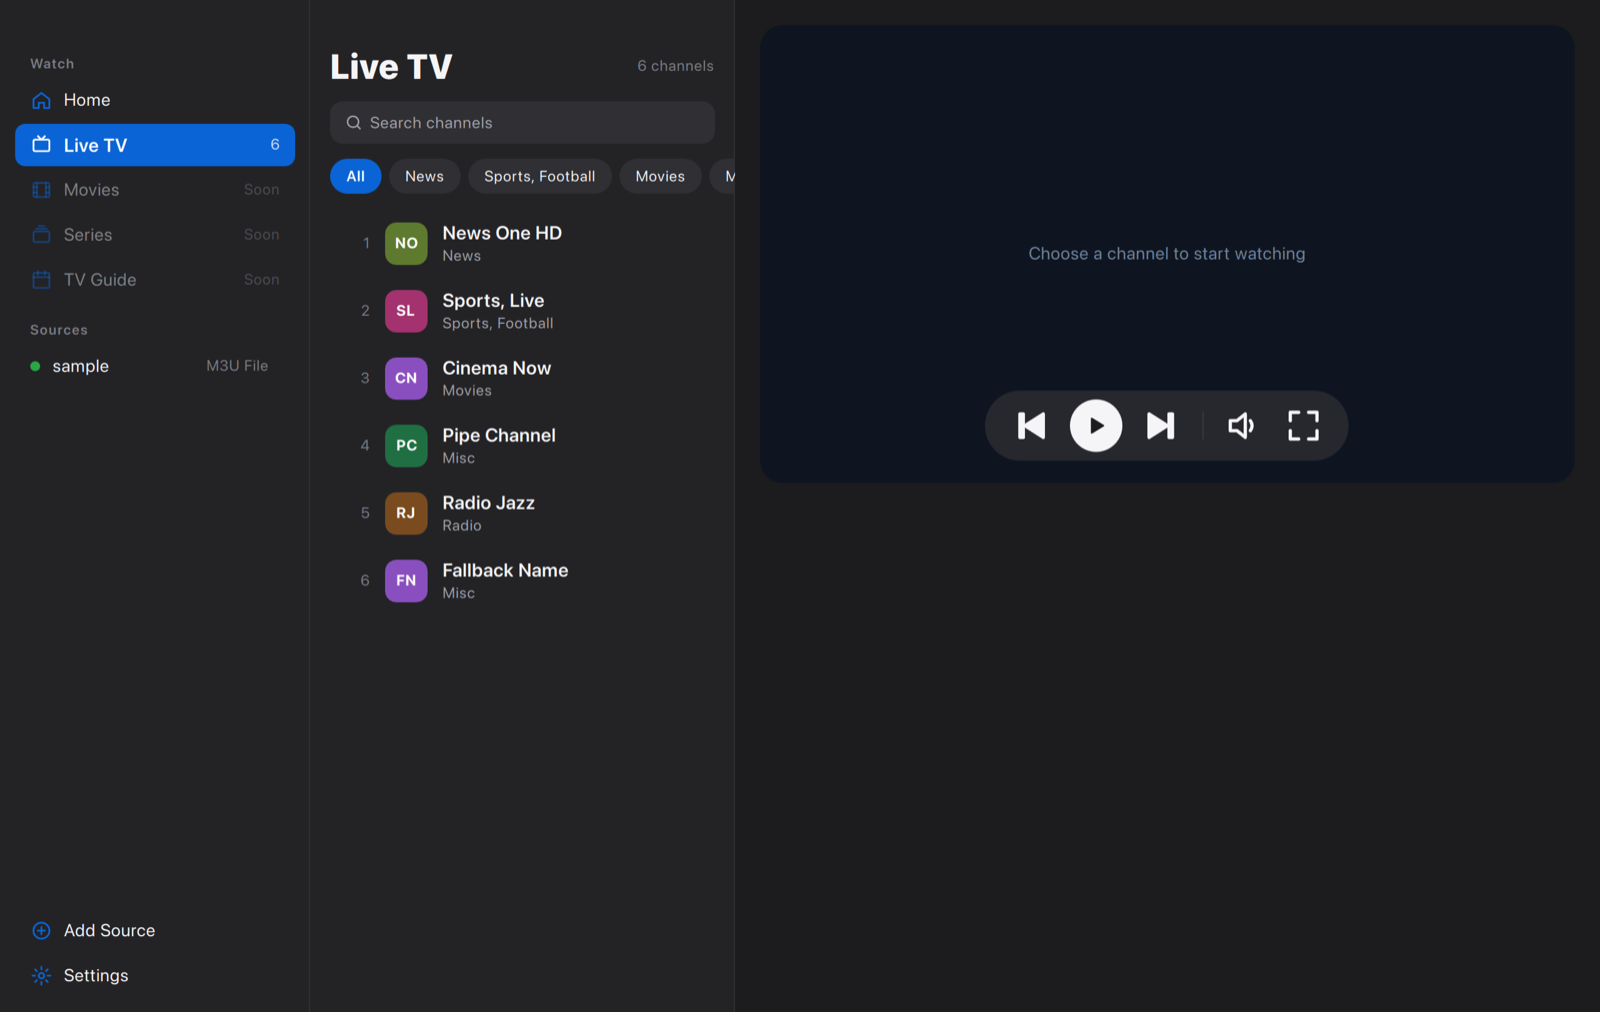
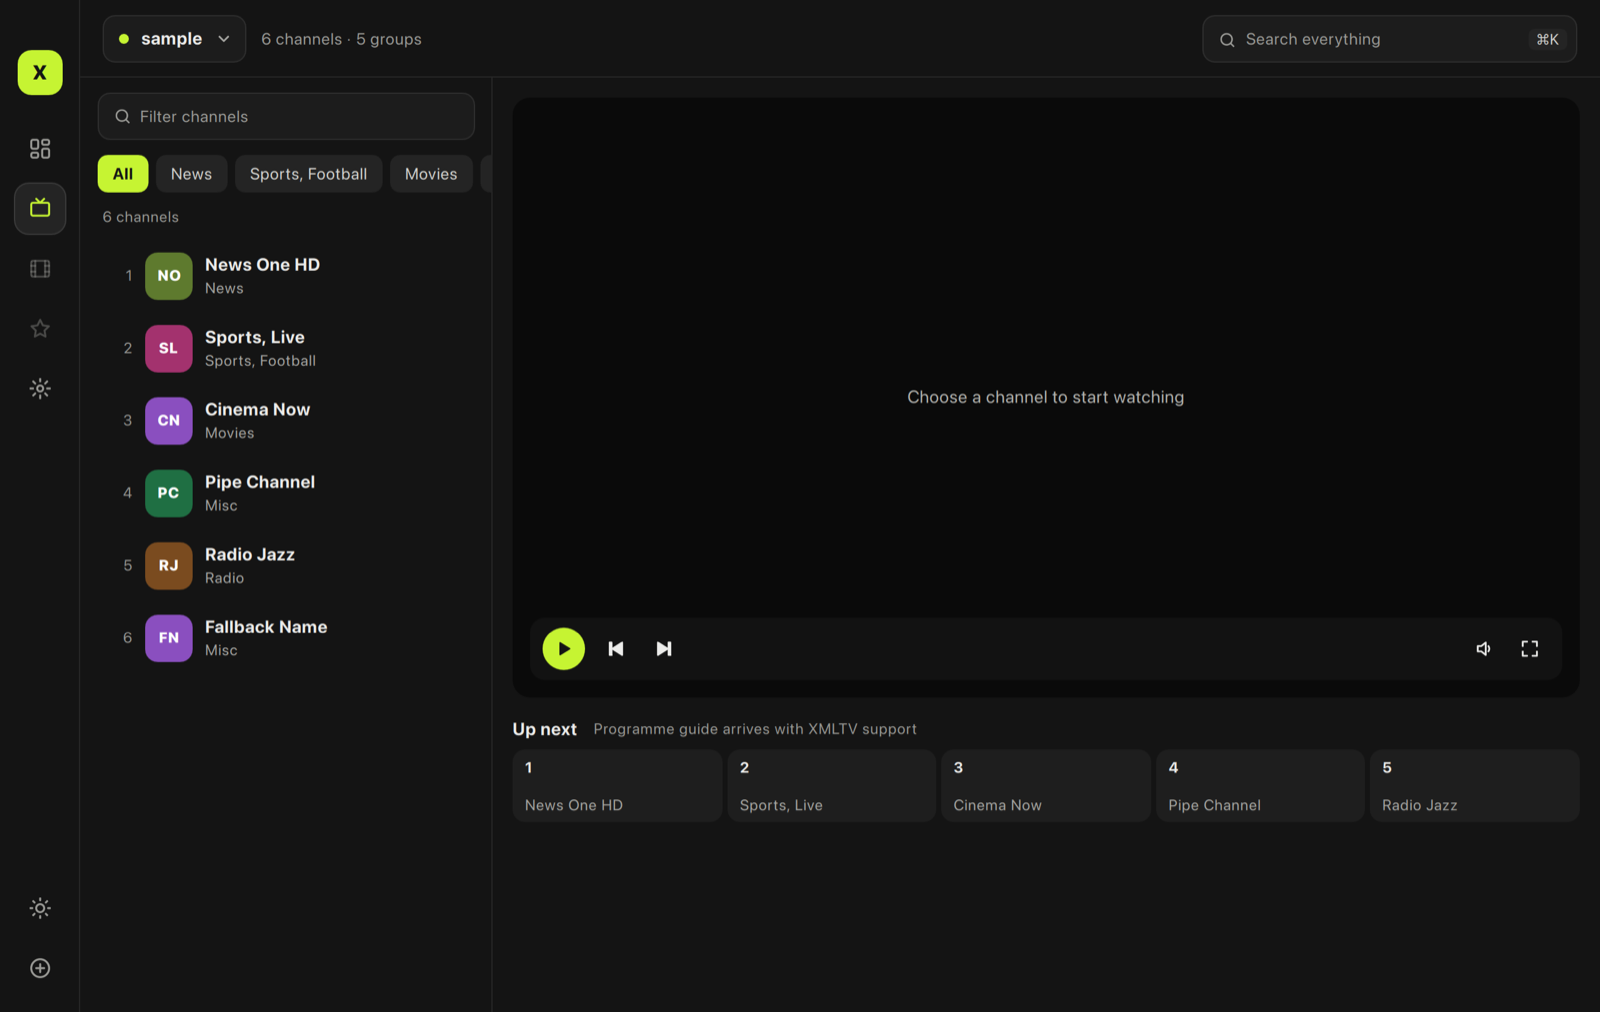
docs: refresh README and screenshots for the Workspace design
Show Live TV in dark and light, the light dashboard and the dark command palette, and describe the new design and palette.

diff --git a/README.md b/README.md
@@ -10,7 +10,7 @@
 ![Platforms](https://img.shields.io/badge/platforms-macOS%20%7C%20Windows%20%7C%20Linux-lightgrey)
 [![License: MIT](https://img.shields.io/badge/license-MIT-blue.svg)](LICENSE)
 
-<img src="docs/assets/home-dark.png" alt="IPTVX home screen in dark mode" width="860">
+<img src="docs/assets/home-dark.png" alt="IPTVX dashboard in dark mode" width="860">
 
 </div>
 
@@ -24,7 +24,8 @@
 
 |  |  |
 |---|---|
-| 🎨 **Aurora design** | A SwiftUI‑inspired interface: translucent sidebar with a spring‑animated selection, large titles, inset forms, glass player controls and fluid page transitions. Light, dark and system appearance with custom accent colors. |
+| 🎨 **Workspace design** | Graphite surfaces with a vivid accent, compact icon rail with a spring‑animated selection, source switcher, source health cards and fluid transitions — in **dark and light** (or following the system), with four accent presets. |
+| ⌘ **Command palette** | `⌘/Ctrl+K` searches channels and runs commands (navigate, add/refresh sources, switch appearance) without leaving the keyboard. |
 | 🪶 **Built to be light** | Channels live in a compact columnar store (≈44 bytes + UTF‑8 text per channel), playlists are parsed as a stream, only one catalog is resident at a time and artwork is cached on disk. See [Memory strategy](docs/MEMORY.md). |
 | 📺 **Your sources** | M3U / M3U8 from a URL (cached for offline start) or a local file, and Xtream Codes accounts. Stalker portals are on the [roadmap](docs/ROADMAP.md). |
 | ⚡ **Native & fast** | C++20 core, QML compiled ahead of time, playback through Qt Multimedia's FFmpeg backend, heavy work on worker threads. |
@@ -33,11 +34,11 @@
 
 ## 📸 Screenshots
 
-| Live TV (dark) | Home (light) |
+| Live TV — dark | Live TV — light |
 |---|---|
-| <img src="docs/assets/live-dark.png" alt="Live TV with channel list and player"> | <img src="docs/assets/home-light.png" alt="Home screen in light mode"> |
-
-<p align="center"><img src="docs/assets/settings-light.png" alt="Settings in light mode" width="640"></p>
+| <img src="docs/assets/live-dark.png" alt="Live TV with channel list and player, dark"> | <img src="docs/assets/live-light.png" alt="Live TV with channel list and player, light"> |
+| **Dashboard — light** | **Command palette — dark** |
+| <img src="docs/assets/home-light.png" alt="Dashboard in light mode"> | <img src="docs/assets/palette-dark.png" alt="Command palette in dark mode"> |
 
 ## 🚀 Getting started
 
@@ -86,7 +87,7 @@ IPTVX/
 │   │   └── util/    # StringTable (interning)
 │   ├── ui/          # QML module IPTVX.UI (static lib iptvx_ui)
 │   │   ├── models/  # QAbstractListModels exposed to QML
-│   │   └── qml/     # theme/, components/, pages/, player/, sheets/
+│   │   └── qml/     # theme/, shell/, components/, pages/, player/, sheets/
 │   └── app/         # Executable: main.cpp + developer tooling
 ├── tests/           # Qt Test suites + synthetic fixtures
 ├── i18n/            # Translations (.ts)
@@ -101,7 +102,7 @@ IPTVX/
 |---|---|
 | [Architecture](docs/ARCHITECTURE.md) | Layers, data flow, threading, persistence |
 | [Memory strategy](docs/MEMORY.md) | How IPTVX keeps its footprint low, rules for new code |
-| [Design system](docs/DESIGN.md) | Aurora tokens, components, motion, the three design concepts |
+| [Design system](docs/DESIGN.md) | Workspace tokens (dark & light), components, motion, explored concepts |
 | [Development](docs/DEVELOPMENT.md) | Building on each OS, presets, testing, dev mode, i18n |
 | [Roadmap](docs/ROADMAP.md) | Feature parity plan with established IPTV players |
 | [Contributing](CONTRIBUTING.md) | Workflow, commit style, code style |
